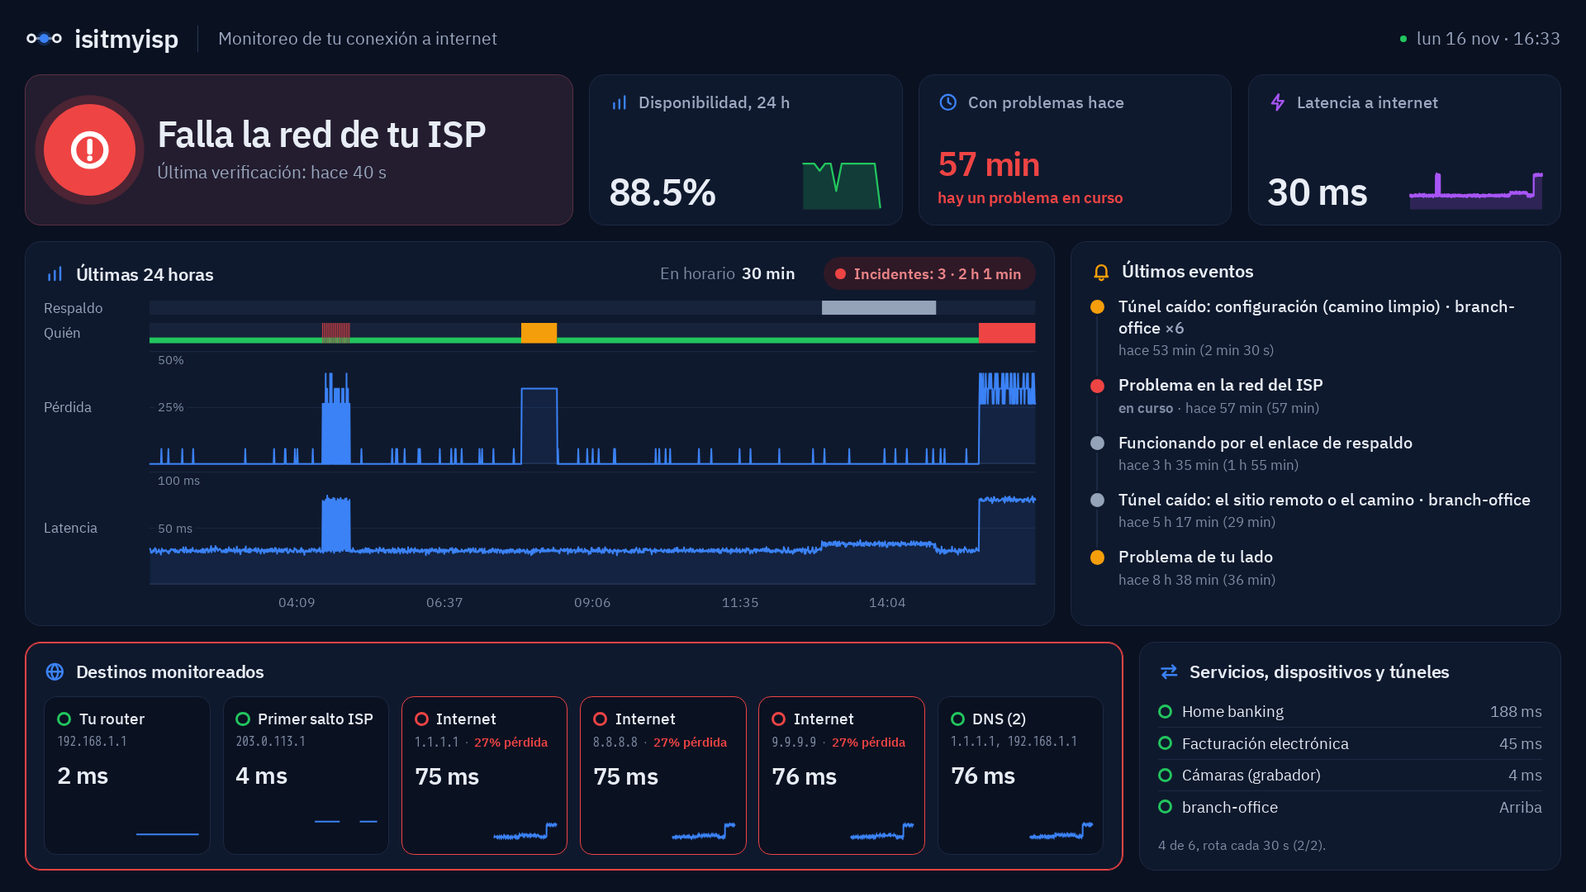
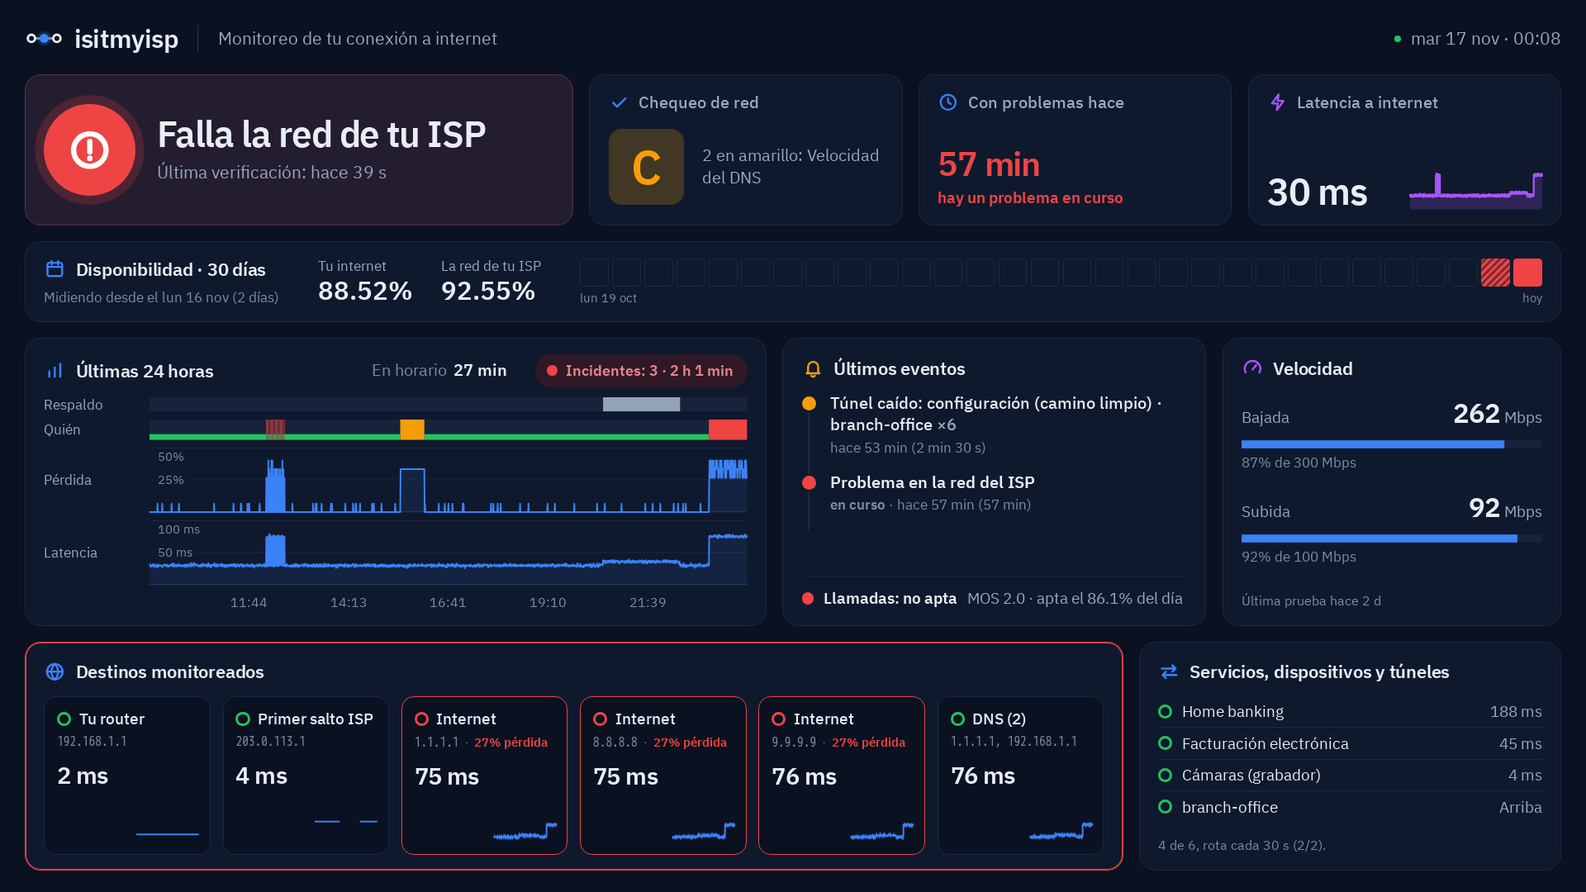
TV board: doctor grade, 30 days, speed and calls (#84) (#89)
The board shows the network grade in place of the 24 h availability when the
doctor has run, a 30-day strip with internet and ISP availability, the last
speed test against the plan with where the bottleneck is, and call quality.
Each block shows only when it has data; the simple layout is unchanged.

Also fixes the ThirtyDays test just after midnight: it counted days by the
window's middle, so today was missed while the latest window was still
yesterday's.

diff --git a/isitmyisp/webapp/templates/tv.html b/isitmyisp/webapp/templates/tv.html
@@ -62,7 +62,9 @@
 
 {% else %}
 {# ------------------------------------------------------------ board: for a technician's wall #}
-<main class="tvb g-{{ group }}{{ ' has-alarm' if b.alarms }}">
+{% set m = d.month if d.has_data else none %}
+{% set sp = d.speed %}{% set spr = sp.last if sp and sp.on and sp.last and not sp.last.error else none %}
+<main class="tvb g-{{ group }}{{ ' has-alarm' if b.alarms }}{{ ' has-month' if m }}">
   <header class="tvb-head">
     <span class="tvb-brand"><svg class="mark" viewBox="0 0 64 64" aria-hidden="true"><path d="M17 32H24.5M39.5 32H47" stroke="currentColor" stroke-width="4" stroke-linecap="round" fill="none" opacity=".55"/><circle cx="32" cy="32" r="12" fill="#3b82f6" opacity=".22"/><circle cx="11" cy="32" r="6" fill="none" stroke="currentColor" stroke-width="4"/><circle cx="53" cy="32" r="6" fill="none" stroke="currentColor" stroke-width="4"/><circle cx="32" cy="32" r="7.5" fill="#3b82f6"/></svg>isitmyisp</span>
     <span class="tvb-sub">{{ t.tv_subtitle }}</span>
@@ -82,12 +84,22 @@
     {% if d.kpi %}{% set k = d.kpi %}
     {% macro delta(v, fmt, unit, good_if_up=True) %}{% if v is not none %}{% set up = v >= 0 %}{% set ok = up if good_if_up else not up %}
       <p class="kpi-delta {{ 'up' if ok else 'down' }}"><svg class="ico" aria-hidden="true"><use href="#i-{{ 'up' if up else 'down' }}"/></svg>{{ fmt|format(v) }}{{ unit }}</p>{% endif %}{% endmacro %}
+    {% if doc %}
+    <div class="tvb-card tvb-grade">
+      <p class="kpi-name"><svg class="ico hi-blue" aria-hidden="true"><use href="#i-check"/></svg>{{ t.tv_grade }}</p>
+      <div class="tvb-grade-body">
+        <p class="doctor-grade g-{{ doc.grade|lower }}">{{ doc.grade }}</p>
+        <p class="tvb-grade-text{{ ' bad' if doc.bad }}">{% if doc.bad %}{{ t.tv_grade_bad.format(n=doc.bad, name=doc.first) }}{% elif doc.warn %}{{ t.tv_grade_warn.format(n=doc.warn, name=doc.first) }}{% else %}{{ t.tv_grade_ok }}{% endif %}</p>
+      </div>
+    </div>
+    {% else %}
     <div class="tvb-card kpi">
       <p class="kpi-name"><svg class="ico hi-blue" aria-hidden="true"><use href="#i-bars"/></svg>{{ t.kpi_avail }}</p>
       <p class="kpi-val">{{ '%.1f'|format(k.avail.value) if k.avail.value is not none else '—' }}%</p>
       {{ delta(k.avail.delta, '%+.1f', '%') }}
       {% if not k.avail.spark.empty %}<div class="kpi-spark s-good" aria-hidden="true"><svg viewBox="0 0 1000 100" preserveAspectRatio="none"><path class="area" d="{{ k.avail.spark.area }}"/><path class="ln" d="{{ k.avail.spark.line }}"/></svg></div>{% endif %}
     </div>
+    {% endif %}
     <div class="tvb-card kpi">
       <p class="kpi-name"><svg class="ico hi-blue" aria-hidden="true"><use href="#i-clock"/></svg>{{ t.kpi_down_for if k.uptime.ongoing else t.kpi_uptime }}</p>
       {% if k.uptime.ongoing %}<p class="kpi-val bad">{{ d.active_for or '—' }}</p><p class="kpi-delta down">{{ t.kpi_now_down }}</p>
@@ -102,8 +114,25 @@
     {% endif %}
   </section>
 
+  {% if m %}
+  <section class="tvb-card tvb-month">
+    <div class="tvb-month-label">
+      <h2><svg class="ico hi-blue" aria-hidden="true"><use href="#i-calendar"/></svg>{{ t.month_title }}</h2>
+      {% if m.since %}<p>{{ (t.month_since_1 if m.n == 1 else t.month_since).format(when=m.since|tvdate, n=m.n) }}</p>{% endif %}
+    </div>
+    <dl class="tvb-month-figs">
+      <div><dt>{{ t.month_internet }}</dt><dd>{{ '%.2f'|format(m.internet) if m.internet is not none else '—' }}%</dd></div>
+      <div><dt>{{ t.month_isp }}</dt><dd>{{ '%.2f'|format(m.isp) if m.isp is not none else '—' }}%</dd></div>
+    </dl>
+    <div class="tvb-month-days">
+      <ol class="days" aria-hidden="true">{% for x in m.days %}<li class="g-{{ x.group }}{{ ' partial' if x.partial }}"></li>{% endfor %}</ol>
+      <p class="days-x"><span>{{ m.days[0].start|tvdate }}</span><span>{{ t.month_today }}</span></p>
+    </div>
+  </section>
+  {% endif %}
+
   {% if d.has_data %}
-  <section class="tvb-row mid">
+  <section class="tvb-row mid{{ ' has-speed' if spr }}">
     <div class="tvb-card tvb-chart">
       <div class="tvb-card-head"><h2><svg class="ico hi-blue" aria-hidden="true"><use href="#i-bars"/></svg>{{ t.last24 }}</h2>
         {% if d.day.hours %}<dl class="tvb-open"><dt>{{ t.tv_open }}</dt><dd>{{ d.day.open_dur if d.day.open_s >= 60 else '0' }}</dd></dl>{% endif %}
@@ -137,7 +166,29 @@
         </li>
         {% endfor %}
       </ol>{% endif %}
+      {% if d.calls and d.calls.now %}{% set c = d.calls %}
+      <p class="tvb-calls b-{{ c.now.band }}"><span class="mos-dot" aria-hidden="true"></span><b>{{ t.tv_calls.format(band=t.band[c.now.band]) }}</b>
+        <span>{{ t.tv_calls_fit.format(mos='%.1f'|format(c.now.mos), pct=c.fit_pct) }}</span></p>{% endif %}
     </div>
+    {% if spr %}
+    <div class="tvb-card tvb-speed">
+      <div class="tvb-card-head"><h2><svg class="ico hi-violet" aria-hidden="true"><use href="#i-gauge"/></svg>{{ t.tv_speed_title }}</h2></div>
+      <div class="tvb-meters">
+        {% for label, mbps, contract in [(t.link_down, spr.down_mbps, sp.contract_down), (t.link_up, spr.up_mbps, sp.contract_up)] %}
+        {% set pct = (100 * mbps / contract) if (mbps and contract) else none %}
+        <div class="tvb-meter{{ ' low' if pct is not none and pct < 80 }}">
+          <p class="tvb-meter-top"><span>{{ label }}</span><span><b>{{ '%.0f'|format(mbps or 0) }}</b> Mbps</span></p>
+          {% if pct is not none %}
+          <svg class="bar" viewBox="0 0 100 10" preserveAspectRatio="none" aria-hidden="true"><rect class="bar-track" x="0" y="2" width="100" height="6"/><rect class="bar-fill" x="0" y="2" width="{{ [pct, 100]|min }}" height="6"/></svg>
+          <p class="tvb-meter-pct">{{ t.speed_of_plan.format(pct='%.0f'|format(pct), plan='%.0f'|format(contract)) }}</p>
+          {% endif %}
+        </div>
+        {% endfor %}
+      </div>
+      {% if spr.servers and sp.where %}<p class="tvb-speed-where{{ ' bad' if sp.where.code == 'exit' else (' warn' if sp.where.code == 'access') }}">{{ t.tv_speed_where[sp.where.code].format(inside='%.0f'|format(sp.where.inside), outside='%.0f'|format(sp.where.outside or 0)) }}</p>{% endif %}
+      <p class="tvb-rot">{{ t.tv_speed_when.format(when=spr.ts|ago) }}</p>
+    </div>
+    {% endif %}
   </section>
 
   <section class="tvb-row low">
@@ -184,6 +235,8 @@
   <symbol id="i-tunnels" viewBox="0 0 24 24"><path d="M4 8.5h15m-3.5-3.5L19 8.5 15.5 12M20 15.5H5m3.5 3.5L5 15.5 8.5 12"/></symbol>
   <symbol id="i-up" viewBox="0 0 24 24"><path d="M12 6 5 17h14Z"/></symbol>
   <symbol id="i-down" viewBox="0 0 24 24"><path d="M12 5v13m-5-5 5 5 5-5"/></symbol>
+  <symbol id="i-calendar" viewBox="0 0 24 24"><rect x="4" y="5.5" width="16" height="14.5" rx="2"/><path d="M4 10h16M8.5 3.5v4M15.5 3.5v4"/></symbol>
+  <symbol id="i-gauge" viewBox="0 0 24 24"><path d="M4.5 17a8.5 8.5 0 1 1 15 0"/><path d="M12 14l4-5"/></symbol>
 </svg>
 {% endif %}
 </body>

diff --git a/isitmyisp/webapp/static/style.css b/isitmyisp/webapp/static/style.css
@@ -928,6 +928,44 @@ input[type=text], input[type=password], input[type=number], input[type=datetime-
 .tvb-open { display: flex; gap: .4rem; margin: 0 0 0 auto; font-size: .95rem; color: var(--ink-3); }
 .tvb-open dt { margin: 0; } .tvb-open dd { margin: 0; color: var(--ink); font-weight: 600; }
 .tvb-open + .status-pill { margin-left: .8rem; }
+/* the rows the board adds only when it has their data: 30 days, the doctor's grade, speed, calls */
+.tvb.has-month { grid-template-rows: auto 8.6rem 4.6rem minmax(9rem, 1fr) 13rem; }
+.tvb.has-alarm.has-month { grid-template-rows: auto auto 8.6rem 4.6rem minmax(9rem, 1fr) 13rem; }
+.tvb-month { display: grid; grid-template-columns: auto auto minmax(0, 1fr); align-items: center; column-gap: 2.2rem; padding: .6rem 1.05rem; }
+.tvb-month-label h2 { margin: 0; display: flex; align-items: center; gap: .55rem; font-size: 1.05rem; white-space: nowrap; }
+.tvb-month-label .ico { width: 1.25rem; height: 1.25rem; stroke-width: 2.2; }
+.tvb-month-label p { margin: .25rem 0 0; color: var(--ink-3); font-size: .8rem; white-space: nowrap; }
+.tvb-month-figs { display: flex; gap: 1.6rem; margin: 0; line-height: 1.2; }
+.tvb-month-figs div { display: flex; flex-direction: column; }
+.tvb-month-figs dt { color: var(--ink-2); font-size: .8rem; white-space: nowrap; }
+.tvb-month-figs dd { margin: 0; font-size: 1.45rem; font-weight: 650; font-variant-numeric: tabular-nums; }
+.tvb-month .days { gap: .2rem; }
+.tvb-month .days li { height: 1.6rem; border-radius: .2rem; }
+.tvb-month .days-x { font-size: .7rem; line-height: 1.2; margin-top: .25rem; }
+.tvb-grade-body { flex: 1; display: flex; align-items: center; gap: 1rem; min-height: 0; margin-top: .5rem; }
+.tvb .doctor-grade { font-size: 2.7rem; width: 4.3rem; height: 4.3rem; border-radius: .75rem; color: var(--good); }
+.tvb .doctor-grade.g-b, .tvb .doctor-grade.g-c { color: var(--you); }
+.tvb .doctor-grade.g-d, .tvb .doctor-grade.g-f { color: var(--isp); }
+.tvb-grade-text { margin: 0; color: var(--ink-2); font-size: .95rem; line-height: 1.3; overflow: hidden;
+                  display: -webkit-box; -webkit-line-clamp: 3; -webkit-box-orient: vertical; }
+.tvb-grade-text.bad { color: var(--ink); font-weight: 600; }
+.tvb-row.mid.has-speed { grid-template-columns: minmax(0, 1.75fr) minmax(0, 1fr) minmax(0, .8fr); }
+.tvb-meters { display: grid; gap: .75rem; }
+.tvb-meter-top { display: flex; justify-content: space-between; align-items: baseline; margin: 0; color: var(--ink-2); font-size: .9rem; }
+.tvb-meter-top b { color: var(--ink); font-size: 1.55rem; font-weight: 700; letter-spacing: -.02em; font-variant-numeric: tabular-nums; }
+.tvb-meter .bar { height: .75rem; margin: .25rem 0 .1rem; }
+.tvb-meter.low .bar-fill { fill: var(--you); }
+.tvb-meter-pct { margin: 0; color: var(--ink-3); font-size: .78rem; }
+.tvb-speed-where { margin: .7rem 0 0; color: var(--ink-2); font-size: .85rem; line-height: 1.3; }
+.tvb-speed-where.bad, .tvb-speed-where.warn { color: var(--ink); padding: .4rem .6rem; border-radius: .5rem;
+                                              background: color-mix(in srgb, var(--isp) 16%, transparent); }
+.tvb-speed-where.warn { background: color-mix(in srgb, var(--you) 16%, transparent); }
+.tvb-calls { --band: var(--good); flex: none; display: flex; align-items: center; gap: .55rem; margin: .4rem 0 0; padding-top: .55rem;
+             border-top: 1px solid var(--line); font-size: .9rem; white-space: nowrap; overflow: hidden; }
+.tvb-calls.b-fair { --band: var(--you); } .tvb-calls.b-poor, .tvb-calls.b-bad { --band: var(--isp); }
+.tvb-calls .mos-dot { width: .7rem; height: .7rem; }
+.tvb-calls b { font-weight: 600; }
+.tvb-calls span:last-child { color: var(--ink-2); overflow: hidden; text-overflow: ellipsis; }
 
 /* the public demo's way out of the wall screen (only on the static demo) */
 .tv-demo { position: fixed; top: .85rem; left: 50%; transform: translateX(-50%); z-index: 5; display: flex; gap: .5rem; }

diff --git a/tests/test_webapp.py b/tests/test_webapp.py
@@ -955,8 +955,9 @@ class ThirtyDays(WebAppBase):
         html = self.client.get("/?lang=es").get_data(as_text=True)
         self.assertIn("Disponibilidad · 30 días", html)
         self.assertIn("Midiendo desde el", html)
-        self.assertEqual(html.count('<li class="g-before'), 30 - len({
-            _t.strftime("%Y-%m-%d", _t.localtime(now - 1800 * k - 900)) for k in range(3 * 48)}))
+        day = lambda ts: _t.strftime("%Y-%m-%d", _t.localtime(ts))
+        # today counts even when the latest window's middle is still yesterday (just after midnight)
+        self.assertEqual(html.count('<li class="g-before'), 30 - len({day(now - 1800 * k - 900) for k in range(3 * 48)} | {day(now)}))
         self.assertIn('class="g-isp', html)
         self.assertIn("1 h sin internet", html)
         rep = self.client.get("/report?since=7d&lang=en").get_data(as_text=True)
@@ -1009,6 +1010,80 @@ class TvPairing(WebAppBase):
         for _ in range(tvpair.MAX_PENDING):
             tvpair.start(self.store)
         self.assertIsNone(tvpair.start(self.store))         # anyone can open /tv: it can't fill the database
+
+
+class TvBoardBlocks(WebAppBase):
+    """The board shows the doctor's grade, 30 days, speed and calls only when each has data; without them it
+    is the board it was before."""
+    BLOCKS = ('class="tvb-card tvb-grade"', 'class="tvb-card tvb-month"', 'class="tvb-card tvb-speed"', 'class="tvb-calls')
+
+    def board(self):
+        return self.client.get("/tv?lang=en").get_data(as_text=True)
+
+    def test_nothing_measured_shows_none_of_the_new_blocks(self):
+        self.store.db.execute("DELETE FROM windows")
+        self.store.db.commit()
+        self.create_admin()
+        html = self.board()
+        for block in self.BLOCKS:
+            self.assertNotIn(block, html, block)
+        self.assertNotIn("has-month", html)
+
+    def test_without_doctor_or_speed_the_figures_and_rows_stay_as_before(self):
+        self.create_admin()
+        html = self.board()
+        self.assertIn("Availability, 24 h", html)                     # the KPI the grade would replace
+        self.assertNotIn('class="tvb-card tvb-grade"', html)
+        self.assertNotIn('class="tvb-card tvb-speed"', html)
+        self.assertIn('class="tvb-row mid"', html)                    # no third column
+        self.assertIn('class="tvb-card tvb-month"', html)             # measured: the 30 days and the calls
+        self.assertIn("has-month", html)
+        self.assertIn('class="tvb-calls', html)
+        self.assertIn("Calls: ", html)
+
+    def test_the_grade_replaces_availability_and_names_the_first_problem(self):
+        from isitmyisp import demo
+        self.create_admin()
+        demo.add_doctor_run(self.store)
+        html = self.board()
+        self.assertIn('class="tvb-card tvb-grade"', html)
+        self.assertNotIn("Availability, 24 h", html)
+        self.assertRegex(html, r'class="doctor-grade g-[a-f]">[A-F]<')
+        self.assertIn("in yellow: ", html)                             # the demo: Wi-Fi and a slow DNS, nothing red
+
+    def test_board_doctor_puts_red_before_yellow(self):
+        from isitmyisp.webapp import views
+        self.assertIsNone(views.board_doctor(self.store, "en"))
+        run = {"ts": 1.0, "grade": "D", "checks": []}
+        orig = views.doctor_view
+        views.doctor_view = lambda store, lang: {"run": run, "grade": "D", "counts": {"ok": 1, "warn": 1, "bad": 1, "skip": 0},
+                                                 "groups": [{"rows": [{"name": "Wi-Fi", "status": "warn"},
+                                                                      {"name": "Link speed", "status": "bad"}]}]}
+        try:
+            self.assertEqual(views.board_doctor(self.store, "en"), {"grade": "D", "bad": 1, "warn": 1, "first": "Link speed"})
+        finally:
+            views.doctor_view = orig
+
+    def test_speed_shows_with_a_result_and_says_when_the_isp_exit_is_the_bottleneck(self):
+        import time as _t
+
+        from isitmyisp import demo
+        from isitmyisp import settings as settings_mod
+        from isitmyisp import speedtest as sp
+        self.create_admin()
+        settings_mod.save(self.store, {"speedtest": {"enabled": True, "accepted": True}})
+        self.assertNotIn('class="tvb-card tvb-speed"', self.board())  # on, but nothing measured yet
+        self.store.add_speedtest(sp.Result(ts=_t.time() - 3 * 86400, down_mbps=0, up_mbps=0, error="timed out"))
+        self.assertNotIn('class="tvb-card tvb-speed"', self.board())  # a failed test is not a speed
+        demo.add_speed_result(self.store)                              # the latest one, with an ISP server
+        html = self.board()
+        self.assertIn('class="tvb-card tvb-speed"', html)
+        self.assertIn('class="tvb-row mid has-speed"', html)
+        self.assertIn("58</b> Mbps", html)
+        self.assertIn('class="tvb-speed-where bad"', html)
+        self.assertIn("Bottleneck at the ISP&#39;s exit", html)
+        settings_mod.save(self.store, {"speedtest": {"enabled": False}})
+        self.assertNotIn('class="tvb-card tvb-speed"', self.board())  # switched off: gone
 
 
 class SettingsTabs(WebAppBase):

diff --git a/isitmyisp/webapp/strings.py b/isitmyisp/webapp/strings.py
@@ -342,6 +342,13 @@ S = {
         "day_open": "While open: {dur}.",
         "day_open_none": "Nothing while open.",
         "tv_open": "While open",
+        "tv_grade": "Network check", "tv_grade_ok": "Every check passes",
+        "tv_grade_bad": "{n} in red: {name}", "tv_grade_warn": "{n} in yellow: {name}",
+        "tv_speed_title": "Speed", "tv_speed_when": "Last test {when}",
+        "tv_speed_where": {"exit": "Bottleneck at the ISP's exit: {inside} → {outside} Mbps",
+                           "access": "Limited by the access link: {inside} Mbps inside the ISP",
+                           "even": "No bottleneck at the ISP's exit"},
+        "tv_calls": "Calls: {band}", "tv_calls_fit": "MOS {mos} · fit {pct}% of the day",
         "wiz_title": "Get started",
         "wiz_open": "Setup wizard",
         "wiz_later": "Finish later",
@@ -722,6 +729,13 @@ S = {
         "day_open": "Con el local abierto: {dur}.",
         "day_open_none": "Nada con el local abierto.",
         "tv_open": "En horario",
+        "tv_grade": "Chequeo de red", "tv_grade_ok": "Todos los chequeos en verde",
+        "tv_grade_bad": "{n} en rojo: {name}", "tv_grade_warn": "{n} en amarillo: {name}",
+        "tv_speed_title": "Velocidad", "tv_speed_when": "Última prueba {when}",
+        "tv_speed_where": {"exit": "Cuello de botella en la salida del ISP: {inside} → {outside} Mbps",
+                           "access": "El límite es el acceso: {inside} Mbps dentro del ISP",
+                           "even": "Sin cuello de botella en la salida del ISP"},
+        "tv_calls": "Llamadas: {band}", "tv_calls_fit": "MOS {mos} · apta el {pct}% del día",
         "wiz_title": "Primeros pasos",
         "wiz_open": "Asistente de configuración",
         "wiz_later": "Terminar después",

diff --git a/scripts/screenshots.py b/scripts/screenshots.py
@@ -115,6 +115,10 @@ def main(lang: str = "en") -> None:
             freeze(base, d / "demo.db", fraction)
             states[name] = d / "demo.db"
         add_speed_result(states["healthy"])
+        (work / "tv").mkdir()                                   # the wall screen: the ISP incident, with a speed test
+        shutil.copy(states["isp"], work / "tv" / "demo.db")
+        add_speed_result(work / "tv" / "demo.db")
+        states["tv"] = work / "tv" / "demo.db"
         for db in states.values():                              # a fixed link for the wall screen
             s = Store(db)
             s.set_settings({"tv_token": "demo"}, bump=False)
@@ -127,7 +131,7 @@ def main(lang: str = "en") -> None:
             (states["failover"], "/", "", "failover.png", "1440,720", False),
             (states["healthy"], "/settings/connection", only("#speed"), "speed-test-settings.png", "1440,1000", True),
             (states["isp"], "/", "", "mobile.png", "390,1500", True),
-            (states["isp"], "/tv/demo", "", "tv.png", "1920,1080", True),
+            (states["tv"], "/tv/demo", "", "tv.png", "1920,1080", True),
             (states["isp"], "/tv/demo?layout=simple", "", "tv-simple.png", "1280,720", True),
             (states["healthy"], "/tv", "", "tv-code.png", "1280,720", True),
             (states["healthy"], "/settings/access", only("#tv"), "tv-settings.png", "1440,700", False),

diff --git a/isitmyisp/webapp/views.py b/isitmyisp/webapp/views.py
@@ -761,6 +761,18 @@ def doctor_view(store: Store, lang: str, now: float | None = None) -> dict | Non
             "pending": requested > run["ts"] and requested > now - 600}
 
 
+def board_doctor(store: Store, lang: str) -> dict | None:
+    """The TV board's grade card: the latest doctor grade, how many checks are red and yellow, and the
+    first problem by name (red before yellow). None until the doctor has run once."""
+    doc = doctor_view(store, lang)
+    if not doc["run"]:
+        return None
+    rows = [r for grp in doc["groups"] for r in grp["rows"]]
+    first = next((r for r in rows if r["status"] == "bad"), None) or next((r for r in rows if r["status"] == "warn"), None)
+    return {"grade": doc["grade"], "bad": doc["counts"]["bad"], "warn": doc["counts"]["warn"],
+            "first": first["name"] if first else None}
+
+
 def _device_row(rec: dict, lang: str) -> dict:
     from ..texts import VERDICT, devcheck_text
     text, advice = devcheck_text(rec, lang)

diff --git a/isitmyisp/webapp/__init__.py b/isitmyisp/webapp/__init__.py
@@ -763,8 +763,9 @@ def create_app(store: Store, *, data_dir: Path | None = None, toml_path: str | N
 
     def _tv_board():
         d = views.dashboard_data(store, g.settings)
-        return render_template("tv.html", d=d, b=views.board(d), simple=request.args.get("layout") == "simple",
-                               now=time.time())
+        simple = request.args.get("layout") == "simple"
+        return render_template("tv.html", d=d, b=views.board(d), simple=simple, now=time.time(),
+                               doc=None if simple else views.board_doctor(store, g.lang))
 
     @app.get("/tv")
     @limiter.limit("60 per minute")

diff --git a/docs/site/es/features.md b/docs/site/es/features.md
@@ -128,7 +128,7 @@ El código vence a los 10 minutos y sirve una sola vez. En **Configuración → 
 
 Tiene dos vistas:
 
-- **Tablero** (por defecto): el veredicto y tres indicadores (disponibilidad, tiempo sin cortes o con problemas, latencia), las últimas 24 horas junto a los últimos eventos, cada destino medido y tus servicios, dispositivos y túneles. Lo que falla se nombra arriba en rojo, los destinos con pérdida se marcan en rojo y las listas largas rotan en cada actualización. Se acomoda a cualquier pantalla, de 720p a 4K, sin barras de desplazamiento.
+- **Tablero** (por defecto): el veredicto y tres indicadores (la nota del [chequeo de la red](/docs/es/doctor/) con su primer problema, o la disponibilidad de 24 horas si todavía no corrió; tiempo sin cortes o con problemas; latencia), la disponibilidad de los últimos 30 días día por día, las últimas 24 horas junto a los últimos eventos y la calidad para llamadas, la última prueba de velocidad contra tu plan (si la tenés activada), cada destino medido y tus servicios, dispositivos y túneles. Cada bloque aparece solo cuando tiene datos. Lo que falla se nombra arriba en rojo, los destinos con pérdida se marcan en rojo y las listas largas rotan en cada actualización. Se acomoda a cualquier pantalla, de 720p a 4K, sin barras de desplazamiento.
 - **Simple** (`?layout=simple`): solo el veredicto, para el mostrador. [Verla en la demo](/es/isp/tv/simple/).
 
 ![La vista simple del modo TV](/docs/img/es/tv-simple.png)

diff --git a/docs/site/en/features.md b/docs/site/en/features.md
@@ -128,7 +128,7 @@ The code expires after 10 minutes and works once. **Settings → Access → TV m
 
 It has two views:
 
-- **Board** (default): the verdict and three figures (availability, time without outages or with problems, latency), the last 24 hours beside the latest events, every measured destination and your services, devices and tunnels. Whatever is down is named at the top in red, destinations losing packets are marked in red, and long lists rotate on every refresh. It fits any screen from 720p to 4K with no scrollbars.
+- **Board** (default): the verdict and three figures (the [network check](/docs/en/doctor/) grade with its first problem, or 24-hour availability until the check has run; time without outages or with problems; latency), availability over the last 30 days day by day, the last 24 hours beside the latest events and call quality, the latest speed test against your plan (when it is on), every measured destination and your services, devices and tunnels. Each block shows only when it has data. Whatever is down is named at the top in red, destinations losing packets are marked in red, and long lists rotate on every refresh. It fits any screen from 720p to 4K with no scrollbars.
 - **Simple** (`?layout=simple`): just the verdict, for a shop counter. [See it in the demo](/en/isp/tv/simple/).
 
 ![The simple TV view](/docs/img/tv-simple.png)

diff --git a/README.md b/README.md
@@ -74,7 +74,7 @@ They work well together: Uptime Kuma for your services, isitmyisp for the connec
 ## What you get
 
 <p>
-  <img src="docs/screenshots/tv.png" alt="The TV board: verdict, figures, last 24 hours, events, destinations and services" width="62%">
+  <img src="docs/screenshots/tv.png" alt="The TV board: verdict, network grade, 30 days, last 24 hours, events, speed, destinations and services" width="62%">
   <img src="docs/screenshots/mobile.png" alt="The dashboard on a phone" width="22%">
 </p>
 
